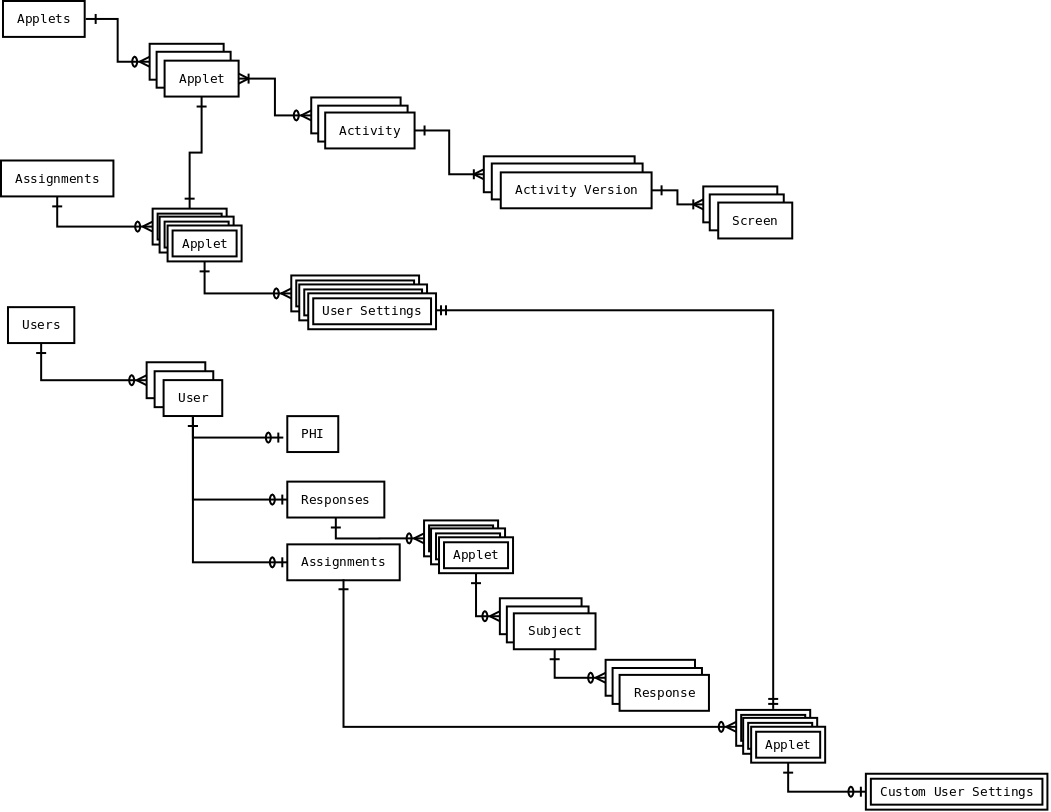
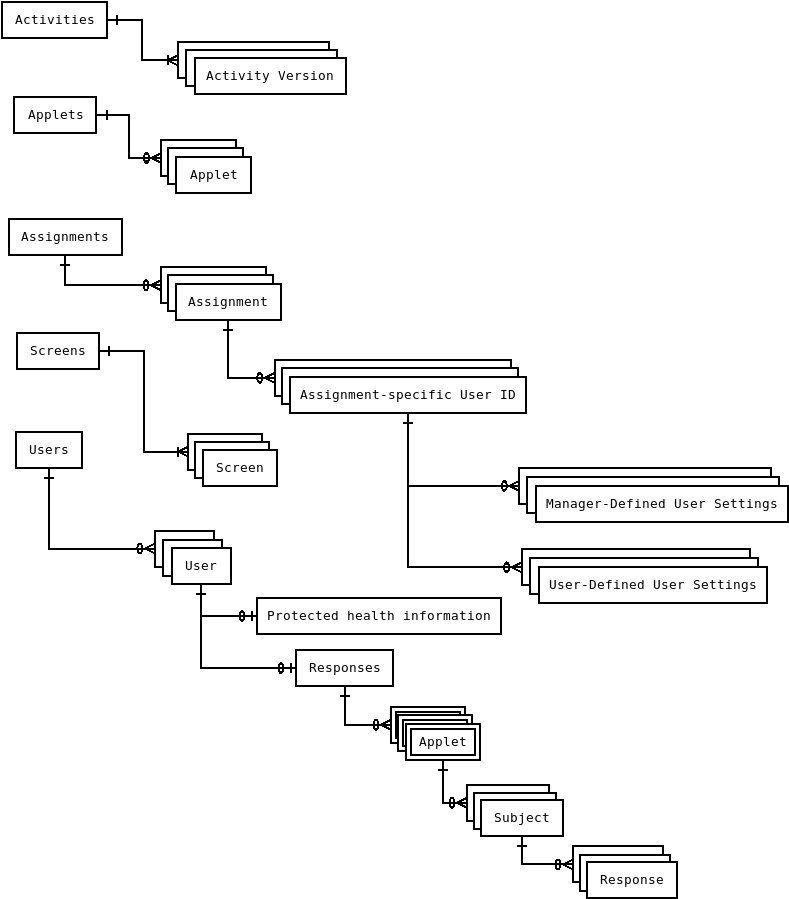
:books: Update Docs to Remove Editor-role Complexity

diff --git a/README.rst b/README.rst
@@ -1,126 +1,28 @@
-Girder for Mindlogger
-====================
+Girder for MindLogger
+=====================
 
 Data Structure
 --------------
-Mindlogger is moving towards the following data structure:
+Girder for MindLogger has the following underlying data structure:
 
 .. figure:: ./docs/images/Mindlogger-DB-ER.png
     :align: center
-    :alt: Mindlogger database entity-relationship diagram
+    :alt: MindLogger database entity-relationship diagram
     :figclass: align-center
     :target: ./docs/images/Mindlogger-DB-ER.dia
-
     The above `entity-relationship diagram <https://cacoo.com/blog/er-diagrams-vs-eer-diagrams-whats-the-difference/>`_ was created with `dia 0.97+git <https://live.gnome.org/Dia>`_.
 
-Entities
-########
-Each entity is separately access controlled.
 
-Activity
-********
-An **activity** folder contains 1 or more
-`Activity Version <#activity-version>`_ folders. If an **activity** is selected
-via the `/activity/{id} <https://mindlogger-dev.vasegurt.com/api/v1#!/activity/activity_getActivity>`_
-endpoint, the latest activity version is returned. These folders are controlled
-by editors.
-
-Activity Version
-****************
-An **activity version** folder contains 1 or more `screen <#screen>`_ items and
-is read-only once activated, other than being deactivatible. If an **activity
-version** is selected via the `/activity/version/{id} <https://mindlogger-dev.vasegurt.com/api/v1#!/activity/activity_getActivityVersion>`_
-endpoint, that version will be returned even if a newer version of that
-`activity <#activity>`_ is available. These folders are controlled by editors.
-
-Applet
-******
-
-strong entity
-^^^^^^^^^^^^^
-An **applet** folder in the `Applets <#applets>`_ collection contains 0 or
-more `Activity <#activity>`_ folders. These folders are controlled by editors.
-
-weak entity (under Assignments)
-^^^^^^^^^^^^^^^^^^^^^^^^^^^^^^^
-An **applet** folder in the `Assignments <#collection>`_ collection contains 0
-or more `User Settings <#user-settings>`_ items. The applet stores user roles,
-scheduling, and other managerial settings for a single `Applet <#strong-entity>`_.
-These folders are controlled by managers.
-
-weak entity (under Users)
-^^^^^^^^^^^^^^^^^^^^^^^^^
-An **applet** folder in an `Assignments <#folder>`_ folder under a `User <#user>`_
-in the `Users <#users>`_ collection contains 0 or 1 `Custom User Settings <#custom-user-settings>`_
-item and stores a cipher key for `applet <#strong-entity>`_-specific user ids.
-This folder is private, only accessible its parent user.
-
-Applets
-*******
-The **applets** collection contains 0 or more `Applet <#strong-entity>`_
-folders. This collection is controlled by editors.
-
-Assignments
-***********
-
-collection
-^^^^^^^^^^
-The **assignments** collection contains 0 or more `Applet <#weak-entity-under-assignments>`_
-folders. This collection is controlled by managers.
-
-folder
-^^^^^^
-An **assignments** folder contains 0 or more `Applet <#weak-entity-under-users>`_ folders.
-This folder is private, only accessible to its parent user.
-
-Custom User Settings
-********************
-A **custom user settings** item contains user-defined overrides to default `User Settings <#user-settings>`_.
-This item is private, only accessible to its parent user.
-
-PHI
-***
-
-Response
-********
-
-Responses
-*********
-
-Screen
-******
-A **screen** item contains information about prompts, response options, and user
-interface. A **screen** is read-only once activated, other than being
-deactivatible. These items are controlled by editors.
-
-Subject
-*******
-
-User
-****
-
-strong entity
-^^^^^^^^^^^^^
-
-weak entity
-^^^^^^^^^^^
-
-User Settings
-*************
-A **user settings** item contains user-specific information, such as display
-name and custom scheduling. These items are controlled by managers.
-
-Users
-*****
 
 Links
 -----
-- Development instance: https://mindlogger-dev.vasegurt.com
-- Production instance: https://api.mindlogger.info
-- Run a local instance: If one clones our `girder <https://github.com/ChildMindInstitute/mindlogger-app-backend/tree/girder>`_ or `girder-dev <https://github.com/ChildMindInstitute/mindlogger-app-backend/tree/girder-dev>`_ branch of this repository, following `the official Girder documentation <https://girder.readthedocs.io/en/stable/admin-docs.html>`_ should get a local instance running.
+- `ReproNim Schema specification <https://github.com/ReproNim/schema-standardization>`_
+- `Development instance <https://mindlogger-dev.vasegurt.com>`_
+- `Production instance <https://api.mindlogger.info>`_
+- `Run a local instance <#requirements>`_
 
-|logo| Girder for Mindlogger |build-status| |docs-status| |license-badge| |gitter-badge| |codecov-badge|
------------------------------------------------------------------------------------------
+|logo| Girder for MindLogger |build-status| |docs-status| |license-badge| |gitter-badge| |codecov-badge|
+--------------------------------------------------------------------------------------------------------
 
 **Data Management Platform**
 
